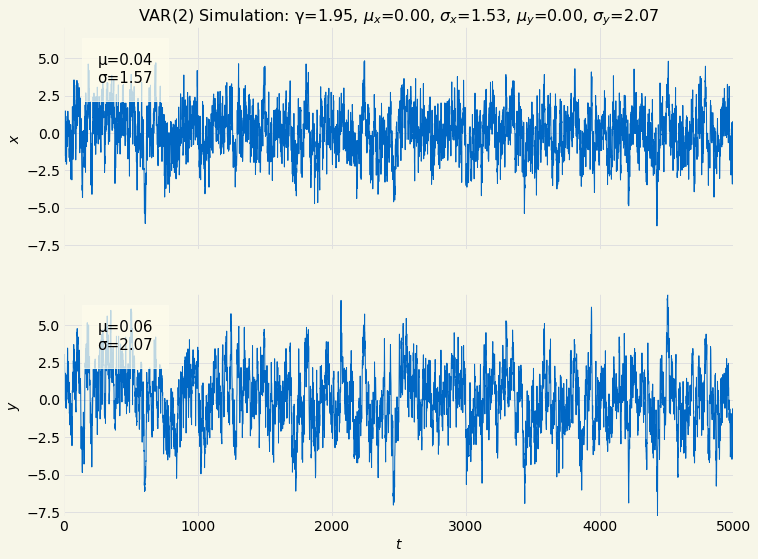
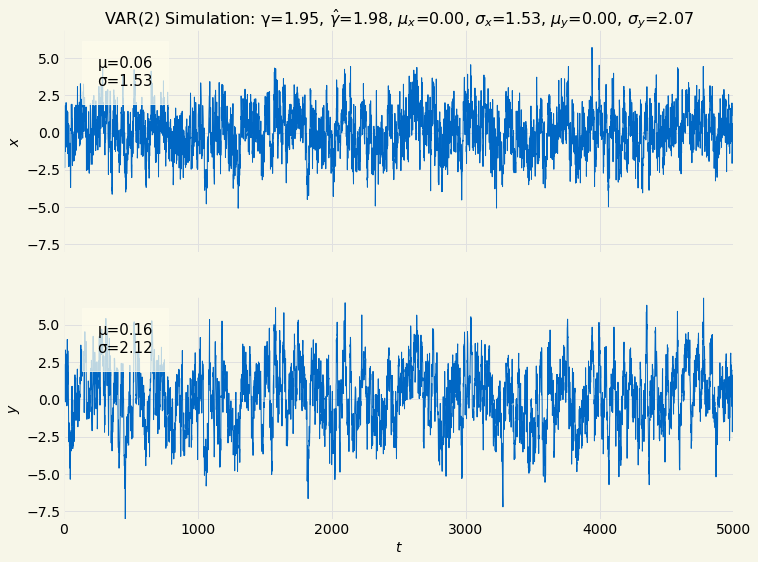
added covariance comparison and more examples

diff --git a/hydrogen_notebooks/algorithmic_trading/mean_reversion/vector_autoregression_simulations.py b/hydrogen_notebooks/algorithmic_trading/mean_reversion/vector_autoregression_simulations.py
@@ -7,7 +7,7 @@ import os
 import sys
 import numpy
 from matplotlib import pyplot
-from scipy import stats
+from lib import stats
 from lib import config
 
 pyplot.style.use(config.glyfish_style)
@@ -113,6 +113,11 @@ def stationary_covariance_matrix(φ, ω):
     vec_var = inv_tmp * vec(Ω)
     return unvec(vec_var)
 
+def eigen_values(φ):
+    Φ = phi_companion_form(φ)
+    λ, _ = numpy.linalg.eig(Φ)
+    return λ
+
 # %%
 
 φ = numpy.array([
@@ -204,6 +209,7 @@ stationary_covariance_matrix(φ, ω)
         numpy.matrix([[0.0, 0.0],
                      [0.0, 0.0]])
 ])
+eigen_values(φ)
 x0 = numpy.array([[0.0, 1.0], [0.0, 1.0]])
 n = 5000
 xt = var_simulate(x0, μ, φ, ω, n)
@@ -220,8 +226,10 @@ numpy.linalg.inv(v)*Φ*v
 
 M = stationary_mean(φ, μ)
 Σ = stationary_covariance_matrix(φ, ω)
+cov = stats.covaraince(xt[0], xt[1])
 plot_name = "var_2_simulation_1_x_y_timeseries"
 title = f"VAR(2) Simulation: γ={format(Σ[0,1], '2.2f')}, " + \
+         r"$\hat{\gamma}$=" + f"{format(cov, '2.2f')}, " + \
          r"$μ_x$=" + f"{format(M[0,0], '2.2f')}, " + \
          r"$σ_x$=" + f"{format(numpy.sqrt(Σ[0,0]), '2.2f')}, " + \
          r"$μ_y$=" + f"{format(M[1,0], '2.2f')}, " + \
@@ -239,6 +247,7 @@ timeseries_plot(xt, ylabel, title, plot_name)
         numpy.matrix([[0.0, 0.0],
                      [0.0, 0.0]])
 ])
+eigen_values(φ)
 x0 = numpy.array([[0.0, 1.0], [0.0, 1.0]])
 n = 5000
 xt = var_simulate(x0, μ, φ, ω, n)
@@ -247,8 +256,100 @@ xt = var_simulate(x0, μ, φ, ω, n)
 
 M = stationary_mean(φ, μ)
 Σ = stationary_covariance_matrix(φ, ω)
+cov = stats.covaraince(xt[0], xt[1])
 plot_name = "var_2_simulation_2_x_y_timeseries"
 title = f"VAR(2) Simulation: γ={format(Σ[0,1], '2.2f')}, " + \
+         r"$\hat{\gamma}$=" + f"{format(cov, '2.2f')}, " + \
+         r"$μ_x$=" + f"{format(M[0,0], '2.2f')}, " + \
+         r"$σ_x$=" + f"{format(numpy.sqrt(Σ[0,0]), '2.2f')}, " + \
+         r"$μ_y$=" + f"{format(M[1,0], '2.2f')}, " + \
+         r"$σ_y$=" + f"{format(numpy.sqrt(Σ[1,1]), '2.2f')}"
+ylabel = [r"$x$", r"$y$"]
+timeseries_plot(xt, ylabel, title, plot_name)
+
+# %%
+
+μ = [0.0, 0.0]
+ω = numpy.matrix([[1.0, 0.0], [0.0, 1.0]])
+φ = numpy.array([
+        numpy.matrix([[0.0, 0.0],
+                     [0.0, 0.0]]),
+        numpy.matrix([[0.5, 0.25],
+                     [0.25, 0.75]])
+])
+eigen_values(φ)
+x0 = numpy.array([[0.0, 1.0], [0.0, 1.0]])
+n = 5000
+xt = var_simulate(x0, μ, φ, ω, n)
+
+# %%
+
+M = stationary_mean(φ, μ)
+Σ = stationary_covariance_matrix(φ, ω)
+cov = stats.covaraince(xt[0], xt[1])
+plot_name = "var_2_simulation_3_x_y_timeseries"
+title = f"VAR(2) Simulation: γ={format(Σ[0,1], '2.2f')}, " + \
+         r"$\hat{\gamma}$=" + f"{format(cov, '2.2f')}, " + \
+         r"$μ_x$=" + f"{format(M[0,0], '2.2f')}, " + \
+         r"$σ_x$=" + f"{format(numpy.sqrt(Σ[0,0]), '2.2f')}, " + \
+         r"$μ_y$=" + f"{format(M[1,0], '2.2f')}, " + \
+         r"$σ_y$=" + f"{format(numpy.sqrt(Σ[1,1]), '2.2f')}"
+ylabel = [r"$x$", r"$y$"]
+timeseries_plot(xt, ylabel, title, plot_name)
+
+# %%
+
+μ = [0.0, 0.0]
+ω = numpy.matrix([[1.0, 0.0], [0.0, 1.0]])
+φ = numpy.array([
+        numpy.matrix([[0.2, 0.1],
+                      [0.1, 0.3]]),
+        numpy.matrix([[0.2, 0.25],
+                     [0.25, 0.3]])
+])
+eigen_values(φ)
+x0 = numpy.array([[0.0, 1.0], [0.0, 1.0]])
+n = 5000
+xt = var_simulate(x0, μ, φ, ω, n)
+
+# %%
+
+M = stationary_mean(φ, μ)
+Σ = stationary_covariance_matrix(φ, ω)
+cov = stats.covaraince(xt[0], xt[1])
+plot_name = "var_2_simulation_3_x_y_timeseries"
+title = f"VAR(2) Simulation: γ={format(Σ[0,1], '2.2f')}, " + \
+         r"$\hat{\gamma}$=" + f"{format(cov, '2.2f')}, " + \
+         r"$μ_x$=" + f"{format(M[0,0], '2.2f')}, " + \
+         r"$σ_x$=" + f"{format(numpy.sqrt(Σ[0,0]), '2.2f')}, " + \
+         r"$μ_y$=" + f"{format(M[1,0], '2.2f')}, " + \
+         r"$σ_y$=" + f"{format(numpy.sqrt(Σ[1,1]), '2.2f')}"
+ylabel = [r"$x$", r"$y$"]
+timeseries_plot(xt, ylabel, title, plot_name)
+
+# %%
+
+μ = [1.0, 1.0]
+ω = numpy.matrix([[1.0, 0.0], [0.0, 1.0]])
+φ = numpy.array([
+        numpy.matrix([[0.2, 0.1],
+                      [0.1, 0.3]]),
+        numpy.matrix([[0.2, 0.25],
+                     [0.25, 0.3]])
+])
+eigen_values(φ)
+x0 = numpy.array([[0.0, 1.0], [0.0, 1.0]])
+n = 50000
+xt = var_simulate(x0, μ, φ, ω, n)
+
+# %%
+
+M = stationary_mean(φ, μ)
+Σ = stationary_covariance_matrix(φ, ω)
+cov = stats.covaraince(xt[0], xt[1])
+plot_name = "var_2_simulation_4_x_y_timeseries"
+title = f"VAR(2) Simulation: γ={format(Σ[0,1], '2.2f')}, " + \
+         r"$\hat{\gamma}$=" + f"{format(cov, '2.2f')}, " + \
          r"$μ_x$=" + f"{format(M[0,0], '2.2f')}, " + \
          r"$σ_x$=" + f"{format(numpy.sqrt(Σ[0,0]), '2.2f')}, " + \
          r"$μ_y$=" + f"{format(M[1,0], '2.2f')}, " + \

diff --git a/lib/stats.py b/lib/stats.py
@@ -43,11 +43,19 @@ def cumsigma(samples):
         var[i] = (float(i) * var[i - 1] + samples[i]**2)/float(i + 1)
     return numpy.sqrt(var-mean**2)
 
-def cum_covaraince(x, y):
+def covaraince(x, y):
     nsample = len(x)
+    meanx = numpy.mean(x)
+    meany = numpy.mean(y)
+    cov = 0.0
+    for i in range(nsample):
+        cov += x[i] * y[i]
+    return cov/nsample - meanx * meany
+
+def cum_covaraince(x, y):
+    cov = numpy.zeros(nsample)
     meanx = cummean(x)
     meany = cummean(y)
-    cov = numpy.zeros(nsample)
     cov[0] = x[0]*y[0]
     for i in range(1, nsample):
         cov[i] = (float(i) * cov[i - 1] + x[i] * y[i])/float(i + 1)
